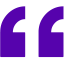
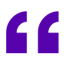
Develop

Changed region(s): [[0.0, 0.0938, 0.4375, 0.9062], [0.5625, 0.0938, 1.0, 0.9062]]

diff --git a/widgets/assets/css/app.min.css b/widgets/assets/css/app.min.css
@@ -1,1 +1,1 @@
-.designsivu-elementor-vertical-menu-container,.elementor-widget-sidekick{width:100%;height:0}.designsivu-elementor-vertical-menu-item{display:block;-webkit-writing-mode:vertical-rl;-ms-writing-mode:tb-rl;writing-mode:vertical-rl}.designsivu-elementor-vertical-menu{z-index:9999;position:fixed;padding:20px 8px}.designsivu-elementor-vertical-menu-spacing{display:inline-block;width:100%}.designsivu-elementor-vertical-menu.designsivu-elementor-vertical-menu-top-left{left:0;top:0;transform:translate(0,0)}.designsivu-elementor-vertical-menu.designsivu-elementor-vertical-menu-middle-left{left:0;top:50%;transform:translate(0,-50%)}.designsivu-elementor-vertical-menu.designsivu-elementor-vertical-menu-bottom-left{left:0;bottom:0;transform:translate(0,0)}.designsivu-elementor-vertical-menu.designsivu-elementor-vertical-menu-top-right{right:0;top:0;transform:translate(0,0)}.designsivu-elementor-vertical-menu.designsivu-elementor-vertical-menu-middle-right{right:0;top:50%;transform:translate(0,-50%)}.designsivu-elementor-vertical-menu.designsivu-elementor-vertical-menu-bottom-right{right:0;bottom:0;transform:translate(0,0)}.designsivu-elementor-tilt-image{display:inline-block}.blob-container{width:100%}.blob-wrapper{display:inline-block}.item{position:relative;max-width:100%;margin:0 0 0 auto;cursor:pointer;-webkit-user-select:none;-moz-user-select:none;-ms-user-select:none;user-select:none;grid-column:span 2;-webkit-tap-highlight-color:rgba(0,0,0,0)}.item:nth-of-type(even){margin:0 auto 0 0}.item:first-of-type{grid-column:span 1}.item__svg{position:relative;display:block;width:100%;height:auto;margin:0 auto}.item__clippath,.item__deco,.item__img{transform-origin:50% 50%}.item__meta{position:absolute;top:0;display:flex;flex-wrap:wrap;justify-content:center;align-content:center;align-items:center;width:100%;height:100%}.item__specimen{font-size:5em;font-weight:500;line-height:.9;vertical-align:text-bottom;letter-spacing:-0.025em}.item__reference{font-size:1.25em;-webkit-writing-mode:vertical-rl;writing-mode:vertical-rl}.item__title{font-size:1.165em;font-weight:600;width:100%;text-align:center;letter-spacing:.125em;color:#fff;text-shadow:2px 2px 4px rgba(0,0,0,0.4)}.item__subtitle{font-size:1em;font-weight:500;text-align:center;letter-spacing:.15em;opacity:0;transition:opacity .5s ease-out;-moz-transition:opacity .5s ease-out;-webkit-transition:opacity .5s ease-out;-o-transition:opacity .5s ease-out}.blob-wrapper:hover .item__subtitle{opacity:1}@media screen and (max-width:60em){.item:first-of-type{grid-column:span 2}.content--grid{grid-row-gap:25vh}}@media screen and (max-width:40em){.codrops-header__title{font-size:1em}.content--grid{padding:2vh 8vw}.item__number{font-size:.75em}.item__svg{min-height:360px}}.designsivu-elementor-sideways{position:relative;overflow:hidden}.designsivu-elementor-sideways .designsivu-elementor-sideways-text{top:0;display:inline-block;white-space:nowrap}.dse-striketrough-wrapper{position:relative;z-index:999}.dse-striketrough{position:absolute;width:1px;margin-left:50%;top:0}.dse-striketrough-title-wrapper{width:100%;display:block;text-align:center;margin-bottom:20px}.dse-striketrough-title{display:inline-block;max-width:250px}.dse-striketrough:after{bottom:-4px}.dse-striketrough:after{content:"";width:9px;height:9px;border-radius:50%;position:absolute;-webkit-transform:translate(-4px,-4px);transform:translate(-4px,-4px);-webkit-transition:opacity .15s ease-in .32s;transition:opacity .15s ease-in .32s;opacity:1}.dse-quote{margin:0 auto;z-index:2;border:0;padding:0}.dse-quote--text{position:relative}.dse-quote--text,.dse-quote--text p{display:inline;line-height:inherit}.dse-quote .dse-quote--mark{display:block;position:absolute;width:64px;background-position:center;background-repeat:no-repeat;background-size:contain;content:''}.dse-quote .dse-quote--mark.dse-quote--mark-bottom{bottom:0;right:-84px}.dse-quote .dse-quote--mark.dse-quote--mark-top{top:0;left:-84px}@media only screen and (max-width:1000px){.dse-quote .dse-quote--mark{width:48px}.dse-quote .dse-quote--mark.dse-quote--mark-bottom{bottom:10px;right:-68px}.dse-quote .dse-quote--mark.dse-quote--mark-top{top:-48px;left:0}}.dse-employees{font-family:'Work Sans',Helvetica,sans-serif}.dse-employee--cell{padding:2px}.dse-employee--container{position:relative}.dse-employee--main-image,.dse-employee--hover-image{object-fit:cover;width:100%;transition:opacity .2s}.dse-employee--main-image{opacity:1}.dse-employee--hover-image{opacity:0}.dse-employee--container:hover .dse-employee--hover-image{opacity:1;transition:opacity .4s}.dse-employee--container:hover .dse-employee--main-image{opacity:0;transition:opacity .4s}.dse-employee--image-container{position:absolute;top:0;left:0;width:100%;height:100%}.dse-employee--images{width:100%;position:relative;height:400px;overflow:hidden}.dse-employee--info-container{height:190px;padding:20px}.dse-employee--static-info{text-align:center}.dse-employee--hover-wrapper{position:relative}.dse-employee--unhover-info{text-align:center;opacity:1;transition:all .2s}.dse-employee--hover-info{position:absolute;top:-100px;left:0;width:100%;text-align:center;opacity:0;transition:all .5s ease-in-out}.dse-employee--container:hover .dse-employee--hover-info{opacity:1;top:0}.dse-employee--container:hover .dse-employee--unhover-info{opacity:0}.dse-employee--name{font-size:17px;font-weight:600;margin-bottom:20px;color:#2e3038;font-family:'Work Sans',Helvetica,sans-serif}.dse-employee--quote-wrapper{height:100px;text-align:center}.dse-employee--quote{color:#999;font-size:21px;font-weight:400;font-family:'Work Sans',Helvetica,sans-serif}.dse-employee--overlay{position:absolute;top:0;left:0;width:100%;height:100%;z-index:10;background-color:#a0a0a0;opacity:.1;transition:all .4s;pointer-events:none}.dse-employee--container:hover .dse-employee--overlay{background-color:transparent}.dse-employee--title{color:#999;font-size:18px;font-family:'Work Sans',Helvetica,sans-serif}.dse-employee--phone{color:#999;font-size:16px;font-family:'Work Sans',Helvetica,sans-serif}.dse-employee--hr{margin-bottom:10px !important;background-color:#f1f1f1 !important;border-color:#f1f1f1 !important}
+.designsivu-elementor-vertical-menu-container,.elementor-widget-sidekick{width:100%;height:0}.designsivu-elementor-vertical-menu-item{display:block;-webkit-writing-mode:vertical-rl;-ms-writing-mode:tb-rl;writing-mode:vertical-rl}.designsivu-elementor-vertical-menu{z-index:9999;position:fixed;padding:20px 8px}.designsivu-elementor-vertical-menu-spacing{display:inline-block;width:100%}.designsivu-elementor-vertical-menu.designsivu-elementor-vertical-menu-top-left{left:0;top:0;transform:translate(0,0)}.designsivu-elementor-vertical-menu.designsivu-elementor-vertical-menu-middle-left{left:0;top:50%;transform:translate(0,-50%)}.designsivu-elementor-vertical-menu.designsivu-elementor-vertical-menu-bottom-left{left:0;bottom:0;transform:translate(0,0)}.designsivu-elementor-vertical-menu.designsivu-elementor-vertical-menu-top-right{right:0;top:0;transform:translate(0,0)}.designsivu-elementor-vertical-menu.designsivu-elementor-vertical-menu-middle-right{right:0;top:50%;transform:translate(0,-50%)}.designsivu-elementor-vertical-menu.designsivu-elementor-vertical-menu-bottom-right{right:0;bottom:0;transform:translate(0,0)}.designsivu-elementor-tilt-image{display:inline-block}.blob-container{width:100%}.blob-wrapper{display:inline-block}.item{position:relative;max-width:100%;margin:0 0 0 auto;cursor:pointer;-webkit-user-select:none;-moz-user-select:none;-ms-user-select:none;user-select:none;grid-column:span 2;-webkit-tap-highlight-color:rgba(0,0,0,0)}.item:nth-of-type(even){margin:0 auto 0 0}.item:first-of-type{grid-column:span 1}.item__svg{position:relative;display:block;width:100%;height:auto;margin:0 auto}.item__clippath,.item__deco,.item__img{transform-origin:50% 50%}.item__meta{position:absolute;top:0;display:flex;flex-wrap:wrap;justify-content:center;align-content:center;align-items:center;width:100%;height:100%}.item__specimen{font-size:5em;font-weight:500;line-height:.9;vertical-align:text-bottom;letter-spacing:-0.025em}.item__reference{font-size:1.25em;-webkit-writing-mode:vertical-rl;writing-mode:vertical-rl}.item__title{font-size:1.165em;font-weight:600;width:100%;text-align:center;letter-spacing:.125em;color:#fff;text-shadow:2px 2px 4px rgba(0,0,0,0.4)}.item__subtitle{font-size:1em;font-weight:500;text-align:center;letter-spacing:.15em;opacity:0;transition:opacity .5s ease-out;-moz-transition:opacity .5s ease-out;-webkit-transition:opacity .5s ease-out;-o-transition:opacity .5s ease-out}.blob-wrapper:hover .item__subtitle{opacity:1}@media screen and (max-width:60em){.item:first-of-type{grid-column:span 2}.content--grid{grid-row-gap:25vh}}@media screen and (max-width:40em){.codrops-header__title{font-size:1em}.content--grid{padding:2vh 8vw}.item__number{font-size:.75em}.item__svg{min-height:360px}}.designsivu-elementor-sideways{position:relative;overflow:hidden}.designsivu-elementor-sideways .designsivu-elementor-sideways-text{top:0;display:inline-block;white-space:nowrap}.dse-striketrough-wrapper{position:relative;z-index:999}.dse-striketrough{position:absolute;width:1px;margin-left:50%;top:0}.dse-striketrough-title-wrapper{width:100%;display:block;text-align:center;margin-bottom:20px}.dse-striketrough-title{display:inline-block;max-width:250px}.dse-striketrough:after{bottom:-4px}.dse-striketrough:after{content:"";width:9px;height:9px;border-radius:50%;position:absolute;-webkit-transform:translate(-4px,-4px);transform:translate(-4px,-4px);-webkit-transition:opacity .15s ease-in .32s;transition:opacity .15s ease-in .32s;opacity:1}.dse-quote{margin:0 auto;z-index:2;border:0;padding:0}.dse-quote--text{position:relative}.dse-quote--text,.dse-quote--text p{display:inline;line-height:inherit}.dse-quote .dse-quote--mark{display:block;position:absolute;width:64px;height:64px}.dse-quote .dse-quote--mark.dse-quote--mark-bottom{bottom:-2px;right:-84px;background-image:url("https://malli.designsivu.fi/agentit/wp-content/themes/agentit/assets/images/quote-right.png")}.dse-quote .dse-quote--mark.dse-quote--mark-top{top:-6px;left:-84px;background-image:url("https://malli.designsivu.fi/agentit/wp-content/themes/agentit/assets/images/quote-left.png")}@media only screen and (max-width:1000px){.dse-quote .dse-quote--mark.dse-quote--mark-bottom{bottom:-13px;right:-70px}.dse-quote .dse-quote--mark.dse-quote--mark-top{top:-60px;left:-5px}}.dse-employees{font-family:'Work Sans',Helvetica,sans-serif}.dse-employee--cell{padding:2px}.dse-employee--container{position:relative}.dse-employee--main-image,.dse-employee--hover-image{object-fit:cover;width:100%;transition:opacity .2s}.dse-employee--main-image{opacity:1}.dse-employee--hover-image{opacity:0}.dse-employee--container:hover .dse-employee--hover-image{opacity:1;transition:opacity .4s}.dse-employee--container:hover .dse-employee--main-image{opacity:0;transition:opacity .4s}.dse-employee--image-container{position:absolute;top:0;left:0;width:100%;height:100%}.dse-employee--images{width:100%;position:relative;height:400px;overflow:hidden}.dse-employee--info-container{height:190px;padding:20px}.dse-employee--static-info{text-align:center}.dse-employee--hover-wrapper{position:relative}.dse-employee--unhover-info{text-align:center;opacity:1;transition:all .2s}.dse-employee--hover-info{position:absolute;top:-100px;left:0;width:100%;text-align:center;opacity:0;transition:all .5s ease-in-out}.dse-employee--container:hover .dse-employee--hover-info{opacity:1;top:0}.dse-employee--container:hover .dse-employee--unhover-info{opacity:0}.dse-employee--name{font-size:17px;font-weight:600;margin-bottom:20px;color:#2e3038;font-family:'Work Sans',Helvetica,sans-serif}.dse-employee--quote-wrapper{height:100px;text-align:center}.dse-employee--quote{color:#999;font-size:21px;font-weight:400;font-family:'Work Sans',Helvetica,sans-serif}.dse-employee--overlay{position:absolute;top:0;left:0;width:100%;height:100%;z-index:10;background-color:#a0a0a0;opacity:.1;transition:all .4s;pointer-events:none}.dse-employee--container:hover .dse-employee--overlay{background-color:transparent}.dse-employee--title{color:#999;font-size:18px;font-family:'Work Sans',Helvetica,sans-serif}.dse-employee--phone{color:#999;font-size:16px;font-family:'Work Sans',Helvetica,sans-serif}.dse-employee--hr{margin-bottom:10px !important;background-color:#f1f1f1 !important;border-color:#f1f1f1 !important}

diff --git a/widgets/assets/css/app.css b/widgets/assets/css/app.css
@@ -279,35 +279,34 @@
     display: block;
     position: absolute;
     width: 64px;
-    background-position: center;
-    background-repeat: no-repeat;
-    background-size: contain;
-    content: '';
+    height: 64px;
 }
 
 .dse-quote .dse-quote--mark.dse-quote--mark-bottom {
-    bottom: 0;
+    bottom: -2px;
     right: -84px;
+    background-image: url("https://malli.designsivu.fi/agentit/wp-content/themes/agentit/assets/images/quote-right.png");
 }
 
 .dse-quote .dse-quote--mark.dse-quote--mark-top {
-    top: 0;
+    top: -6px;
     left: -84px;
+    background-image: url("https://malli.designsivu.fi/agentit/wp-content/themes/agentit/assets/images/quote-left.png");
 }
 
 @media only screen and (max-width: 1000px) {
     .dse-quote .dse-quote--mark {
-        width: 48px;
+
     }
 
     .dse-quote .dse-quote--mark.dse-quote--mark-bottom {
-        bottom: 10px;
-        right: -68px;
+        bottom: -13px;
+        right: -70px;
     }
 
     .dse-quote .dse-quote--mark.dse-quote--mark-top {
-        top: -48px;
-        left: 0;
+        top: -60px;
+        left: -5px;
     }
 }
 

diff --git a/widgets/employeeGallery.php b/widgets/employeeGallery.php
@@ -208,7 +208,9 @@ class EmployeeGallery extends Widget_Base
                                             <h6 class="dse-employee--title">“<?php echo($item['quote']); ?>“</h6>
                                             <hr class="dse-employee--hr"/>
                                         <?php } ?>
-                                        <div class="dse-employee--phone"><?php echo($item['phone']); ?></div>
+                                        <?php if (!empty($item['phone'])) { ?>
+                                            <div class="dse-employee--phone"><?php echo($item['phone']); ?></div>
+                                        <?php } ?>
                                     </div>
                                 </div>
                             </div>

diff --git a/widgets/quote.php b/widgets/quote.php
@@ -171,11 +171,9 @@ class Quote extends Widget_Base
         ?>
         <blockquote class="dse-quote">
             <div class="dse-quote--text">
-                <img src="<?php echo(plugin_dir_url(__FILE__) . 'assets/images/quote-left.png'); ?>"
-                     class="dse-quote--mark dse-quote--mark-top"/>
+                <div class="dse-quote--mark dse-quote--mark-top"></div>
                 <p><?php echo($settings['text']); ?></p>
-                <img src="<?php echo(plugin_dir_url(__FILE__) . 'assets/images/quote-right.png'); ?>"
-                     class="dse-quote--mark dse-quote--mark-bottom"/>
+                <div class="dse-quote--mark dse-quote--mark-bottom"></div>
             </div>
         </blockquote>
         <?php
